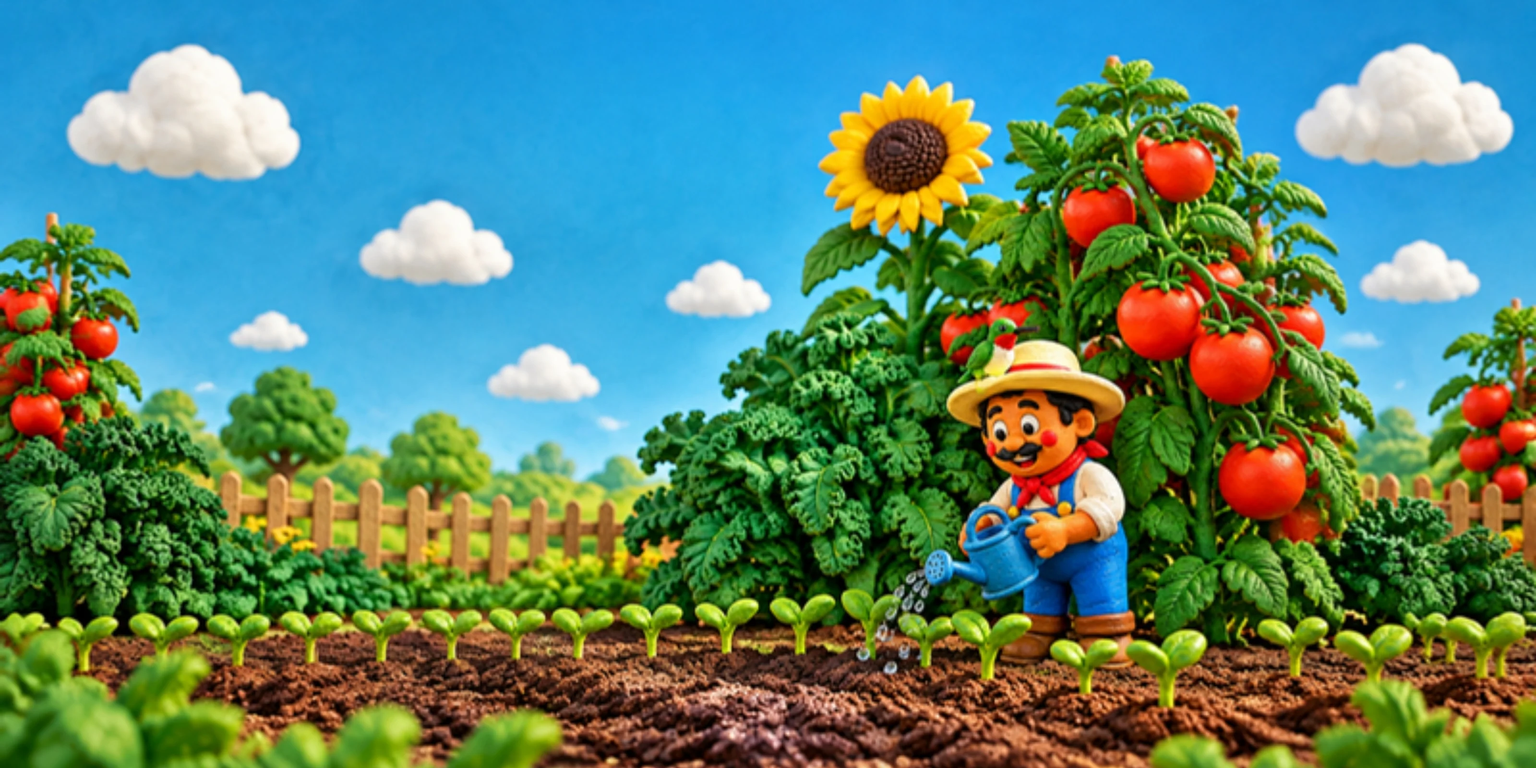
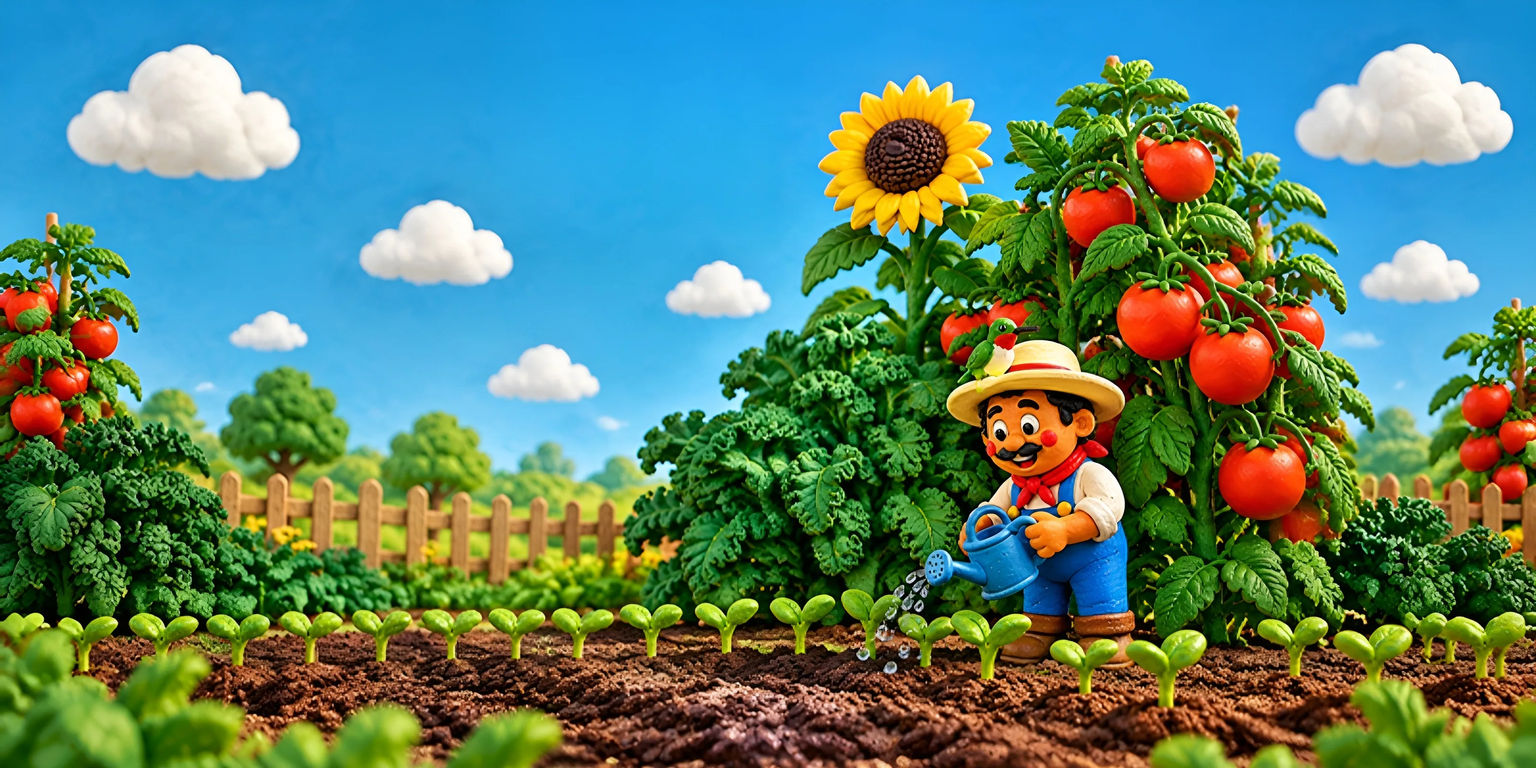
Scenes: 2x open-box and re-detailed panorama (all 8 scenes now Retina-ready)
Claude-Session: https://claude.ai/code/session_01J2R4BD6HLiQv8B6i7zkBfA

diff --git a/index.html b/index.html
@@ -316,7 +316,7 @@ src="https://www.facebook.com/tr?id=1606389660991888&ev=PageView&noscript=1"/></
         <span class="price" style="font-size:15px;color:var(--muted)">Ships from Amazon · $2.50 per packet</span>
       </div>
     </div>
-    <div class="art"><picture><source media="(min-width:901px)" srcset="media/site/farmer/farmer-hero-wide.webp" width="3200" height="1600"><img class="cut" src="media/site/farmer/farmer-hero.webp" srcset="media/site/farmer/farmer-hero.webp 1x, media/site/farmer/farmer-hero@2x.webp 2x" width="1448" height="1086" alt="Claymation scene: the Happy Farmer, a tiny clay farmer with a hummingbird on his hat, watering seedlings under giant tomato plants, kale and a sunflower" fetchpriority="high"></picture></div>
+    <div class="art"><picture><source media="(min-width:901px)" srcset="media/site/farmer/farmer-hero-wide-1x.webp 1x, media/site/farmer/farmer-hero-wide.webp 2x" width="3200" height="1600"><img class="cut" src="media/site/farmer/farmer-hero.webp" srcset="media/site/farmer/farmer-hero.webp 1x, media/site/farmer/farmer-hero@2x.webp 2x" width="1448" height="1086" alt="Claymation scene: the Happy Farmer, a tiny clay farmer with a hummingbird on his hat, watering seedlings under giant tomato plants, kale and a sunflower" fetchpriority="high"></picture></div>
   </div>
 </section>
 
@@ -352,7 +352,7 @@ src="https://www.facebook.com/tr?id=1606389660991888&ev=PageView&noscript=1"/></
         <li><b>Slide-out keepsake box</b> with foam insert</li>
       </ul>
     </div>
-    <div class="art"><img class="clay" src="media/site/farmer/farmer-inside.webp" width="960" height="1200" loading="lazy" alt="Claymation scene: the Happy Seeds box standing upright with its drawer pulled out of the short end, ten colorful seed packets and the grow guide inside, and the Happy Farmer admiring it"></div>
+    <div class="art"><img class="clay" src="media/site/farmer/farmer-inside.webp" srcset="media/site/farmer/farmer-inside.webp 1x, media/site/farmer/farmer-inside@2x.webp 2x" width="960" height="1200" loading="lazy" alt="Claymation scene: the Happy Seeds box standing upright with its drawer pulled out of the short end, ten colorful seed packets and the grow guide inside, and the Happy Farmer admiring it"></div>
   </div>
 </section>
 

diff --git a/404.html b/404.html
@@ -19,7 +19,7 @@
 </head>
 <body>
 <main>
-  <img src="/media/site/farmer/farmer-inside.webp" width="960" height="1200" alt="The Happy Seeds box with its drawer pulled out of the short end, ten seed packets and the grow guide inside">
+  <img src="/media/site/farmer/farmer-inside.webp" srcset="/media/site/farmer/farmer-inside.webp 1x, /media/site/farmer/farmer-inside@2x.webp 2x" width="960" height="1200" alt="The Happy Seeds box with its drawer pulled out of the short end, ten seed packets and the grow guide inside">
   <h1>Nothing sprouted <em>here.</em></h1>
   <p>That page isn't growing on this site. The kit, the blog and the wholesale guide are all one tap away.</p>
   <a class="btn" href="/">Back to the kit</a>
